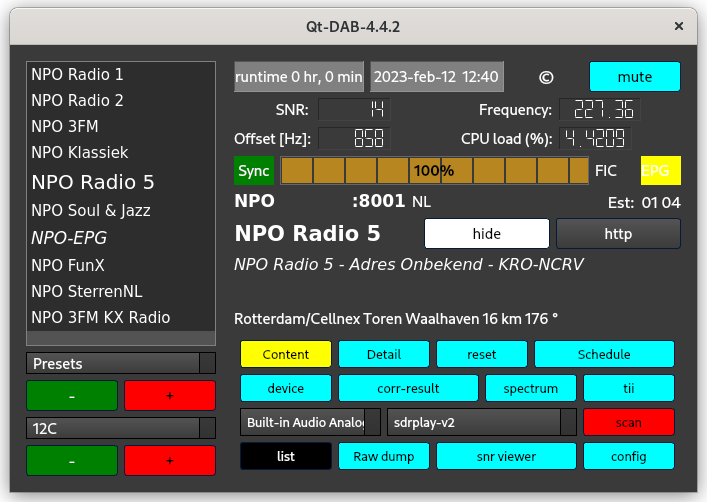
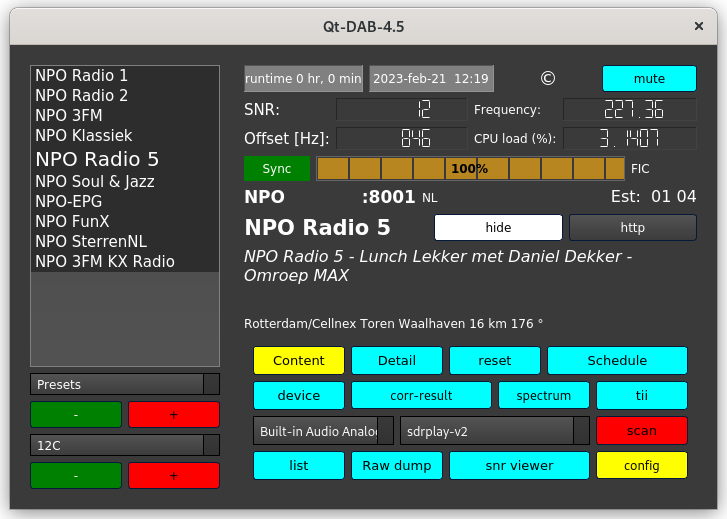
update pictures

Changed region(s): [[0.0311, 0.1195, 0.9646, 0.9562], [0.0311, 0.0299, 0.9646, 0.0896], [0.7468, 0.1195, 0.7779, 0.1793]]

diff --git a/README.md b/README.md
@@ -90,7 +90,6 @@ The basic idea behing Qt-5 is to limit the number of controls on the main widget
 Both versions of Qt-DAB are built from (mostly) the same set of sources,
 the GUI and the software interfacing the GUI to the rest of the program.
 
-
 **dabMini**, i.e. the small version for just listening to a service, is obsolete, the source can be found as subdirectory in the "obsolete" directory.
 
 ![5.2](/qt-dab-5-main-widget.png?raw=true)
@@ -104,8 +103,8 @@ Since the Qt-DAB-5 main widget shows the station labels (if any),
 the option - available in Qt-DAB-4 - for displaying the station labels
 on a separate widget is not needed.
 
+![4.5](/qt-dab-4-config-widget.png?raw=true)
 ![5.2](/qt-dab-5-config-widget.png?raw=true)
-![4.4](/qt-dab-4-config-widget.png?raw=true)
 
 The functionality of the versions is (almost) the same, version 5.1 has
 (most users will not use it though) the possibility of generating "eti" files.
@@ -115,6 +114,7 @@ then let me know.
 The Qt-DAB-5.2 version has a slightly modified "technical window", 
 it now contains a small spectrum display of the audio output.
 
+![4.5](/qt-dab-4-technical-widget.png?raw=true)
 ![5.2](/qt-dab-5-technical-widget.png?raw=true)
 
 ----------------------------------------------------------------------
